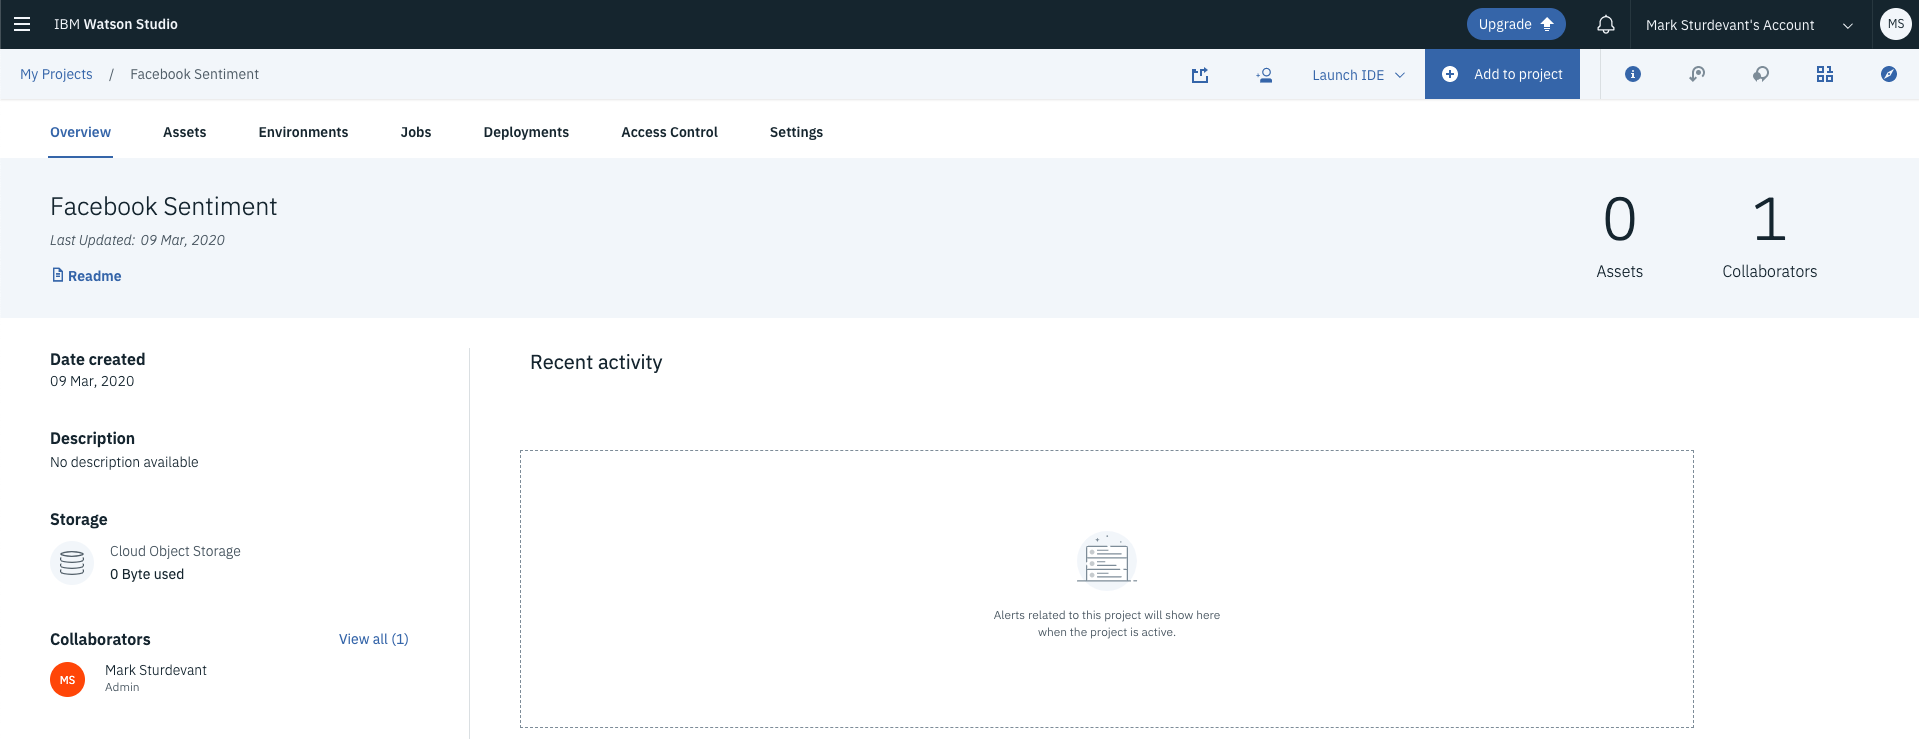
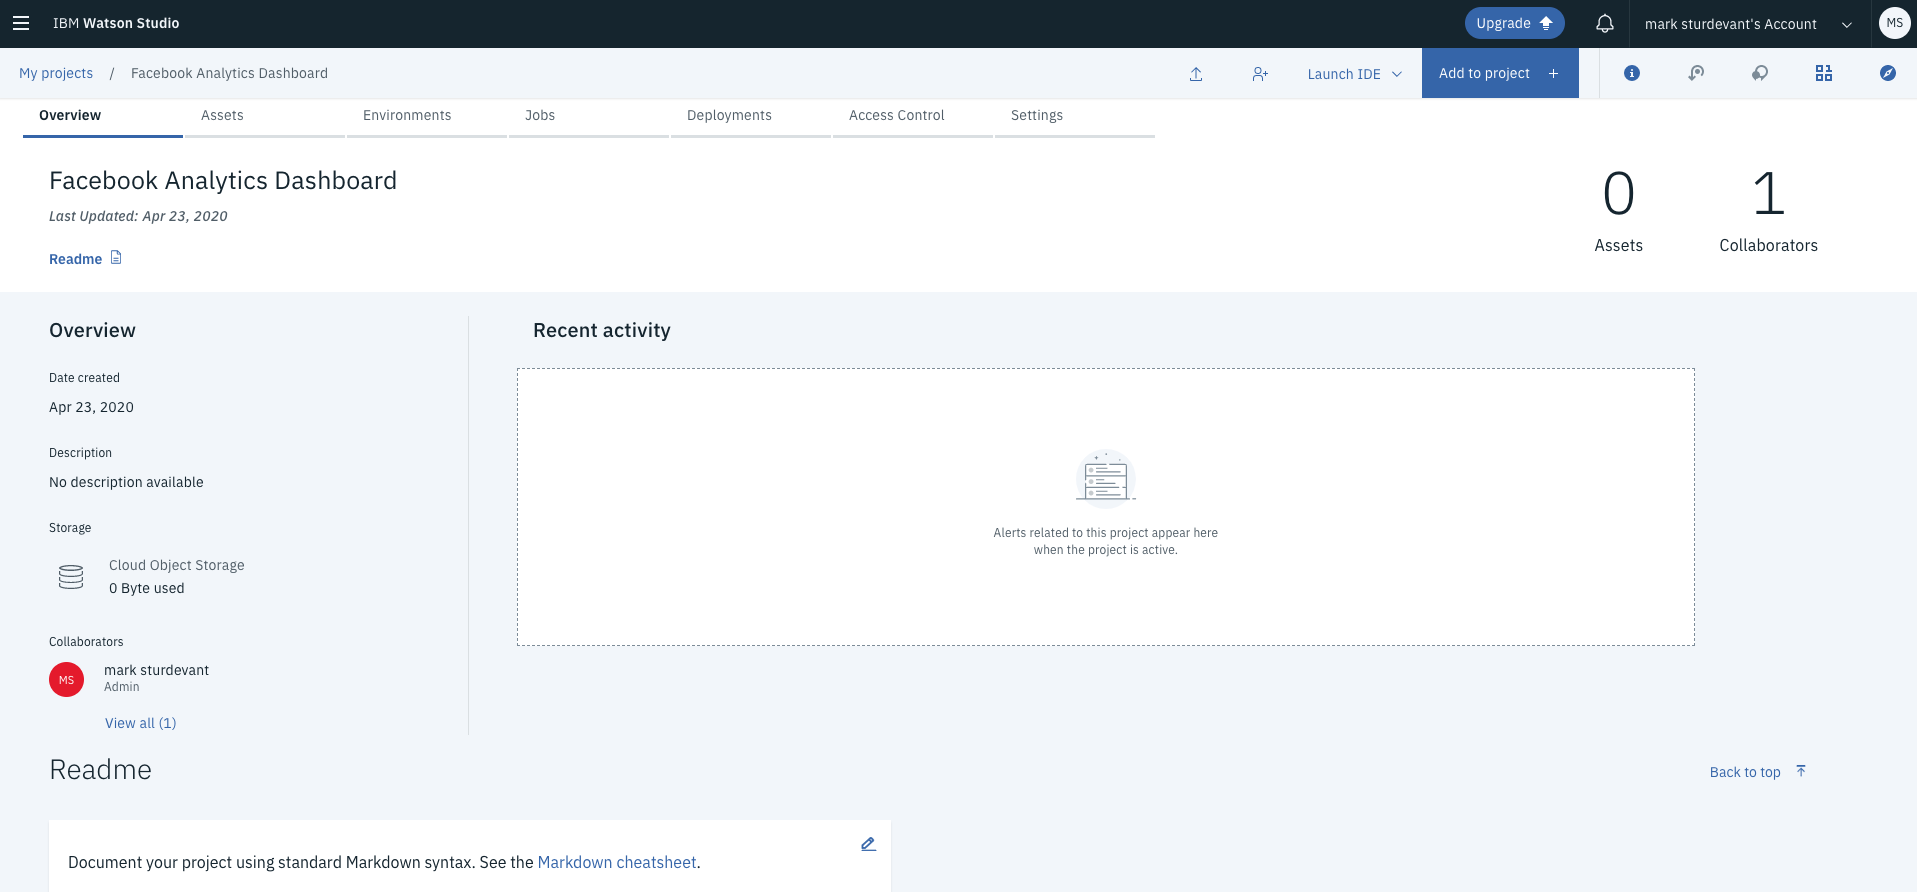
Use Cognos Dashboard Embedded
* Highlight Cognos Dashboard Embedded for the visualization
* Pattern no longer highlights PixieDust

diff --git a/README.md b/README.md
@@ -1,3 +1,5 @@
+[![Build Status](https://travis-ci.org/IBM/pixiedust-facebook-analysis.svg?branch=master)](https://travis-ci.org/IBM/pixiedust-facebook-analysis)
+
 # Uncover insights from Facebook data with Watson services
 
 In this code pattern, we will use a Jupyter notebook with Watson Studio to glean insights from a vast body of unstructured data. We'll start with data exported from Facebook Analytics. We'll use Watson’s Natural Language Understanding and Visual Recognition to enrich the data.
@@ -14,7 +16,7 @@ These types of insights are especially beneficial for marketing analysts who are
 
 It is important to note that this code pattern is meant to be used as a guided experiment, rather than an application with one set output. The standard Facebook Analytics export features text from posts, articles, and thumbnails, along with standard Facebook performance metrics such as likes, shares, and impressions. This unstructured content was then enriched with Watson APIs to extract keywords, entities, sentiment, and emotion.
 
-After data is enriched with Watson APIs, there are several different types of ways to analyze it. Watson Studio provides a robust, yet flexible method of exploring the unstructured, enriched Facebook content.
+After the data is enriched with Watson APIs, we'll use the Cognos Dashboard Embedded service to add a dashboard to the project. Using the dashboard you can explore our results and build your own sophisticated visualizations to communicate the insights you've discovered.
 
 This code pattern provides mock Facebook data, a notebook, and comes with several pre-built visualizations to jump start you with uncovering hidden insights.
 
@@ -31,17 +33,17 @@ When the reader has completed this code pattern, they will understand how to:
 
 1. A CSV file exported from Facebook Analytics is added to Object Storage.
 1. Generated code makes the file accessible as a pandas DataFrame.
-1. The data is enriched with Natural Language Understanding.
-1. The data is enriched with Tone Analyzer.
-1. The data is enriched with Visual Recognition.
-1. Visualize the enriched data to uncover hidden insights and create graphics to highlight them.
+1. The data is enriched with Watson Natural Language Understanding.
+1. The data is enriched with Watson Visual Recognition.
+1. Use a dashboard to visualize the enriched data and uncover hidden insights.
 
 ## Included components
 
 * [IBM Watson Studio](https://dataplatform.cloud.ibm.com): Analyze data using RStudio, Jupyter, and Python in a configured, collaborative environment that includes IBM value-adds, such as managed Spark.
+* [IBM Watson Natural Language Understanding](https://www.ibm.com/watson/services/natural-language-understanding/): Natural language processing for advanced text analysis.
+* [IBM Watson Visual Recognition](https://www.ibm.com/watson/services/visual-recognition/): Understand image content.
+* [IBM Cognos Dashboard Embedded](https://cloud.ibm.com/catalog/services/ibm-cognos-dashboard-embedded): The IBM Cognos Dashboard Embedded lets you, the developer, painlessly add end-to-end data visualization capabilities to your application.
 * [IBM Cloud Object Storage](https://cloud.ibm.com/catalog/services/cloud-object-storage): An IBM Cloud service that provides an unstructured cloud data store to build and deliver cost effective apps and services with high reliability and fast speed to market.
-* [Watson Natural Language Understanding](https://www.ibm.com/watson/services/natural-language-understanding/): Natural language processing for advanced text analysis.
-* [Watson Visual Recognition](https://www.ibm.com/watson/services/visual-recognition/): Understand image content.
 * [Jupyter Notebooks](https://jupyter.org/): An open-source web application that allows you to create and share documents that contain live code, equations, visualizations and explanatory text.
 * [pandas](https://pandas.pydata.org/): A Python library providing high-performance, easy-to-use data structures.
 * [Beautiful Soup](https://www.crummy.com/software/BeautifulSoup/bs4/doc/): Beautiful Soup is a Python library for pulling data out of HTML and XML files.
@@ -51,16 +53,25 @@ When the reader has completed this code pattern, they will understand how to:
 Follow these steps to setup and run this code pattern. The steps are
 described in detail below.
 
-1. [Create a new Watson Studio project](#1-create-a-new-watson-studio-project)
-1. [Add services to the project](#2-add-services-to-the-project)
-1. [Create the notebook in Watson Studio](#3-create-the-notebook-in-watson-studio)
-1. [Add credentials](#4-add-credentials)
-1. [Add the CSV file](#5-add-the-csv-file)
-1. [Run the notebook](#6-run-the-notebook)
-1. [Analyze the results](#7-analyze-the-results)
-1. [Save your work](#8-save-your-work)
+1. [Clone the repo](#1-clone-the-repo)
+1. [Create a new Watson Studio project](#2-create-a-new-watson-studio-project)
+1. [Add services to the project](#3-add-services-to-the-project)
+1. [Create the notebook in Watson Studio](#4-create-the-notebook-in-watson-studio)
+1. [Add credentials](#5-add-credentials)
+1. [Add the CSV file](#6-add-the-csv-file)
+1. [Run the notebook](#7-run-the-notebook)
+1. [Add a dashboard to the project](#8-add-a-dashboard-to-the-project)
+1. [Analyze the results](#9-analyze-the-results)
 
-### 1. Create a new Watson Studio project
+### 1. Clone the repo
+
+Clone the `pixiedust-facebook-analysis` repo locally. In a terminal, run the following command:
+
+```bash
+git clone https://github.com/IBM/pixiedust-facebook-analysis.git
+```
+
+### 2. Create a new Watson Studio project
 
 * Log into IBM's [Watson Studio](https://dataplatform.cloud.ibm.com). Once in, you'll land on the dashboard.
 
@@ -76,7 +87,7 @@ described in detail below.
 
   ![studio-project-overview](doc/source/images/studio_project_overview.png)
 
-### 2. Add services to the project
+### 3. Add services to the project
 
 * Associate the project with Watson services. To create an instance of each service, go to the `Settings` tab in the new project and scroll down to `Associated Services`. Click `Add service` and select `Watson` from the drop-down menu. Add the service using the free `Lite` plan. Repeat for each of the services used in this pattern:
 
@@ -85,13 +96,15 @@ described in detail below.
 
 * Once your services are created, copy the credentials and save them for later. You will use them in your Jupyter notebook.
 
-  * Use the upper-left `☰` menu, and select `Services > Watson Services`.
+  * Use the upper-left `☰` menu, and select `Services > My Services`.
   * Use the 3-dot actions menu to select `Manage in IBM Cloud` for each service.
-  * Copy each `API Key` and `URL` to use in the notebook.
+  * Copy each `API key` and `URL` to use in the notebook.
 
-### 3. Create the notebook in Watson Studio
+### 4. Create the notebook in Watson Studio
 
-* From the new project `Overview` tab, click `+ Add to project` on the top right and choose the `Notebook` asset type.
+* Go back to your Watson Studio project by using your browser's back button or use the upper-left `☰` menu, and select `Projects` and open your project.
+
+* Select the `Overview` tab, click `Add to project +` on the top right and choose the `Notebook` asset type.
 
   ![add_notebook.png](doc/source/images/add_notebook.png)
 
@@ -112,7 +125,7 @@ described in detail below.
 
   > **TIP:** Your notebook will appear in the `Notebooks` section of the `Assets` tab.
 
-### 4. Add credentials
+### 5. Add credentials
 
 Find the notebook cell after `1.5. Add Service Credentials From IBM Cloud for Watson Services`.
 
@@ -122,7 +135,7 @@ Set the API key and URL for each service.
 
 > **Note**: This cell is marked as a `hidden_cell` because it will contain sensitive credentials.
 
-### 5. Add the CSV file
+### 6. Add the CSV file
 
 #### Add the CSV file to the notebook
 
@@ -167,7 +180,7 @@ Use the CSV file's drop-down menu again. This time select `Insert Credentials`.
 
 The inserted code includes a dictionary with credentials assigned to a variable with a name like `credentials_1`. It may have a different name (e.g. `credentials_2`). Rename it or reassign it if needed. The notebook code assumes it will be `credentials_1`.
 
-## 6. Run the notebook
+## 7. Run the notebook
 
 When a notebook is executed, what is actually happening is that each code cell in the notebook is executed, in order, from top to bottom.
 
@@ -186,11 +199,30 @@ There are several ways to execute the code cells in your notebook:
 * At a scheduled time.
   * Press the `Schedule` button located in the top right section of your notebook panel. Here you can schedule your notebook to be executed once at some future time, or repeatedly at your specified interval.
 
-## 7. Analyze the results
+## 8. Add a dashboard to the project
 
-### Part I - Enrich
+### Add the enriched data as a project data asset
 
-If you walk through the cells, you will see that we demonstrated how to do the following in Part I:
+* Go to the `Assets` tab in the your Watson Studio project click on the `01/00` (Find and add data) icon.
+* Select the `enriched_example_facebook_data.csv` file and use the 3-dot pull-down to select `Add as data asset`.
+
+### Associate the project with a Dashboard service
+
+* Go to the `Settings` tab in the new project and scroll down to `Associated Services`.
+* Click `Add service` and select `Dashboard` from the drop-down menu.
+* Create the service using the free `Lite` plan.
+
+### Load the provided dashboard.json file
+
+* Click the `Add to project +` button and select `Dashboard`.
+* Select the `From file` tab and use the `Select file` button to open the file `dashboards/dashboard.json` from your local repo.
+* Select your Cognos Dashboard Embedded service from the list.
+* Hit `Create`.
+* If you are asked to re-link the data set, select your `enriched_example_facebook_data.csv` asset.
+
+## 9. Analyze the results
+
+If you walk through the cells, you will see that we demonstrated how to do the following:
 
 * Install external libraries from PyPI
 * Create clients to connect to Watson cognitive services
@@ -201,53 +233,40 @@ If you walk through the cells, you will see that we demonstrated how to do the f
 * Use Visual Recognition
 * Save the enriched data in a CSV file in Object Storage
 
-### Part II - Data Preparation
+When you try the dashboard, you will see:
 
-In Part II, we used pandas to create multiple DataFrames from our main enriched DataFrame.
-
-### Part III - Analyze
-
-In Part III, we analyze the results by exploring and visualizing the metrics.
-
-After all the prep work done earlier, you'll see that there is almost no code needed here. We just use one-liners like this:
-
-```python
-display(<data-frame>)
-```
-
-You should also notice that we used ```display(tones)``` in two different cells, but the result was two different charts. How can that happen? Well, we used cell metadata to define how to display the data. Notice the `Edit Metadata` button on each cell. If you don't see it, use the menu `View > Cell Toolbar > Edit Metadata` to make it visible. If you look at the metadata for the first two charts, you'll see how we got a bar chart and a pie chart.
-
-![emotional_engagement](doc/source/images/emotional_engagement.png)
-
-![sentimental_engagement](doc/source/images/sentimental_engagement.png)
-
-This is where we explore to find out what the enriched data will tell us.
-
-Use the `Options` button to change the chart settings. The first chart shows post consumption by the detected emotion in the article. Notice how changing the aggregation type from SUM to AVG gives you a very different conclusion. You can also change it to COUNT to see the frequency of each emotion, but when you do that the metric no longer matters.
-
-Explore by trying the following:
-
-* Use emotion as the key instead of sentiment (or both).
-* Try other metrics such as lifetime negative feedback from users.
-* Try the different renderers.
-* Try different chart types (and a grid).
-
-The right combination will give you insights into the impact of your facebook posts. Once you uncover the insights, find the best presentation to convince others.
-
-## 8. Save your work
-
-### How to save your work
-
-Under the `File` menu, there are several ways to save your notebook:
-
-* `Save` will simply save the current state of your notebook, without any version information.
-* `Save Version` will save your current state of your notebook with a version tag that contains a date and time stamp. Up to 10 versions of your notebook can be saved, each one retrievable by selecting the `Revert To Version` menu item.
+* How to add a dashboard to a Watson Studio project
+* How to import a dashboard JSON file
+* Linking a dashboard to data saved in Cloud Object Storage
+* An example with tabs and a variety of charts
+* A dashboard tool that you can use to explore your data and create new visualizations to share
 
 ## Sample output
 
-The example output in [`examples`](examples) has embedded JavaScript for charts. View it via nbviewer [here](https://nbviewer.jupyter.org/github/IBM/pixiedust-facebook-analysis/blob/master/examples/pixiedust_facebook_analysis.ipynb).
+The provided dashboard uses four tabs to show four simple charts:
 
-> **Note**: Some interactive functionality might not work in the saved example. Run the notebook for full functionality. To see the code and markdown cells without output, you can view [notebooks/pixiedust_facebook_analysis.ipynb](notebooks/pixiedust_facebook_analysis.ipynb) with the Github viewer.
+* Emotion
+* Sentiment
+* Entities
+* Keywords
+
+The enriched data contains emotions, sentiment, entities, and keywords that were added using Natural Language Understanding to process the posts, links, and thumbnails. Combining the enrichment with the metrics from Facebook gives us a huge number of options for what we could show on the dashboard. The dashboard editor also allows you great flexibility on how you arrange your dashboard and visualize your data. The example demonstrates the following:
+
+* A word-cloud showing the keywords sized by total impressions and using color to show the sentiment
+
+  ![keywords.png](doc/source/images/keywords.png)
+
+* A pie chart showing total reach by emotion
+
+  ![emotion.png](doc/source/images/emotion.png)
+
+* A stacked bar chart showing likes, shares, and comments by post sentiment
+
+  ![sentiment.png](doc/source/images/sentiment.png)
+
+* A bar chart with a line overlay, showing total impressions and paid impressions by mentioned entity
+
+  ![entities.png](doc/source/images/entities.png)
 
 ## License
 
